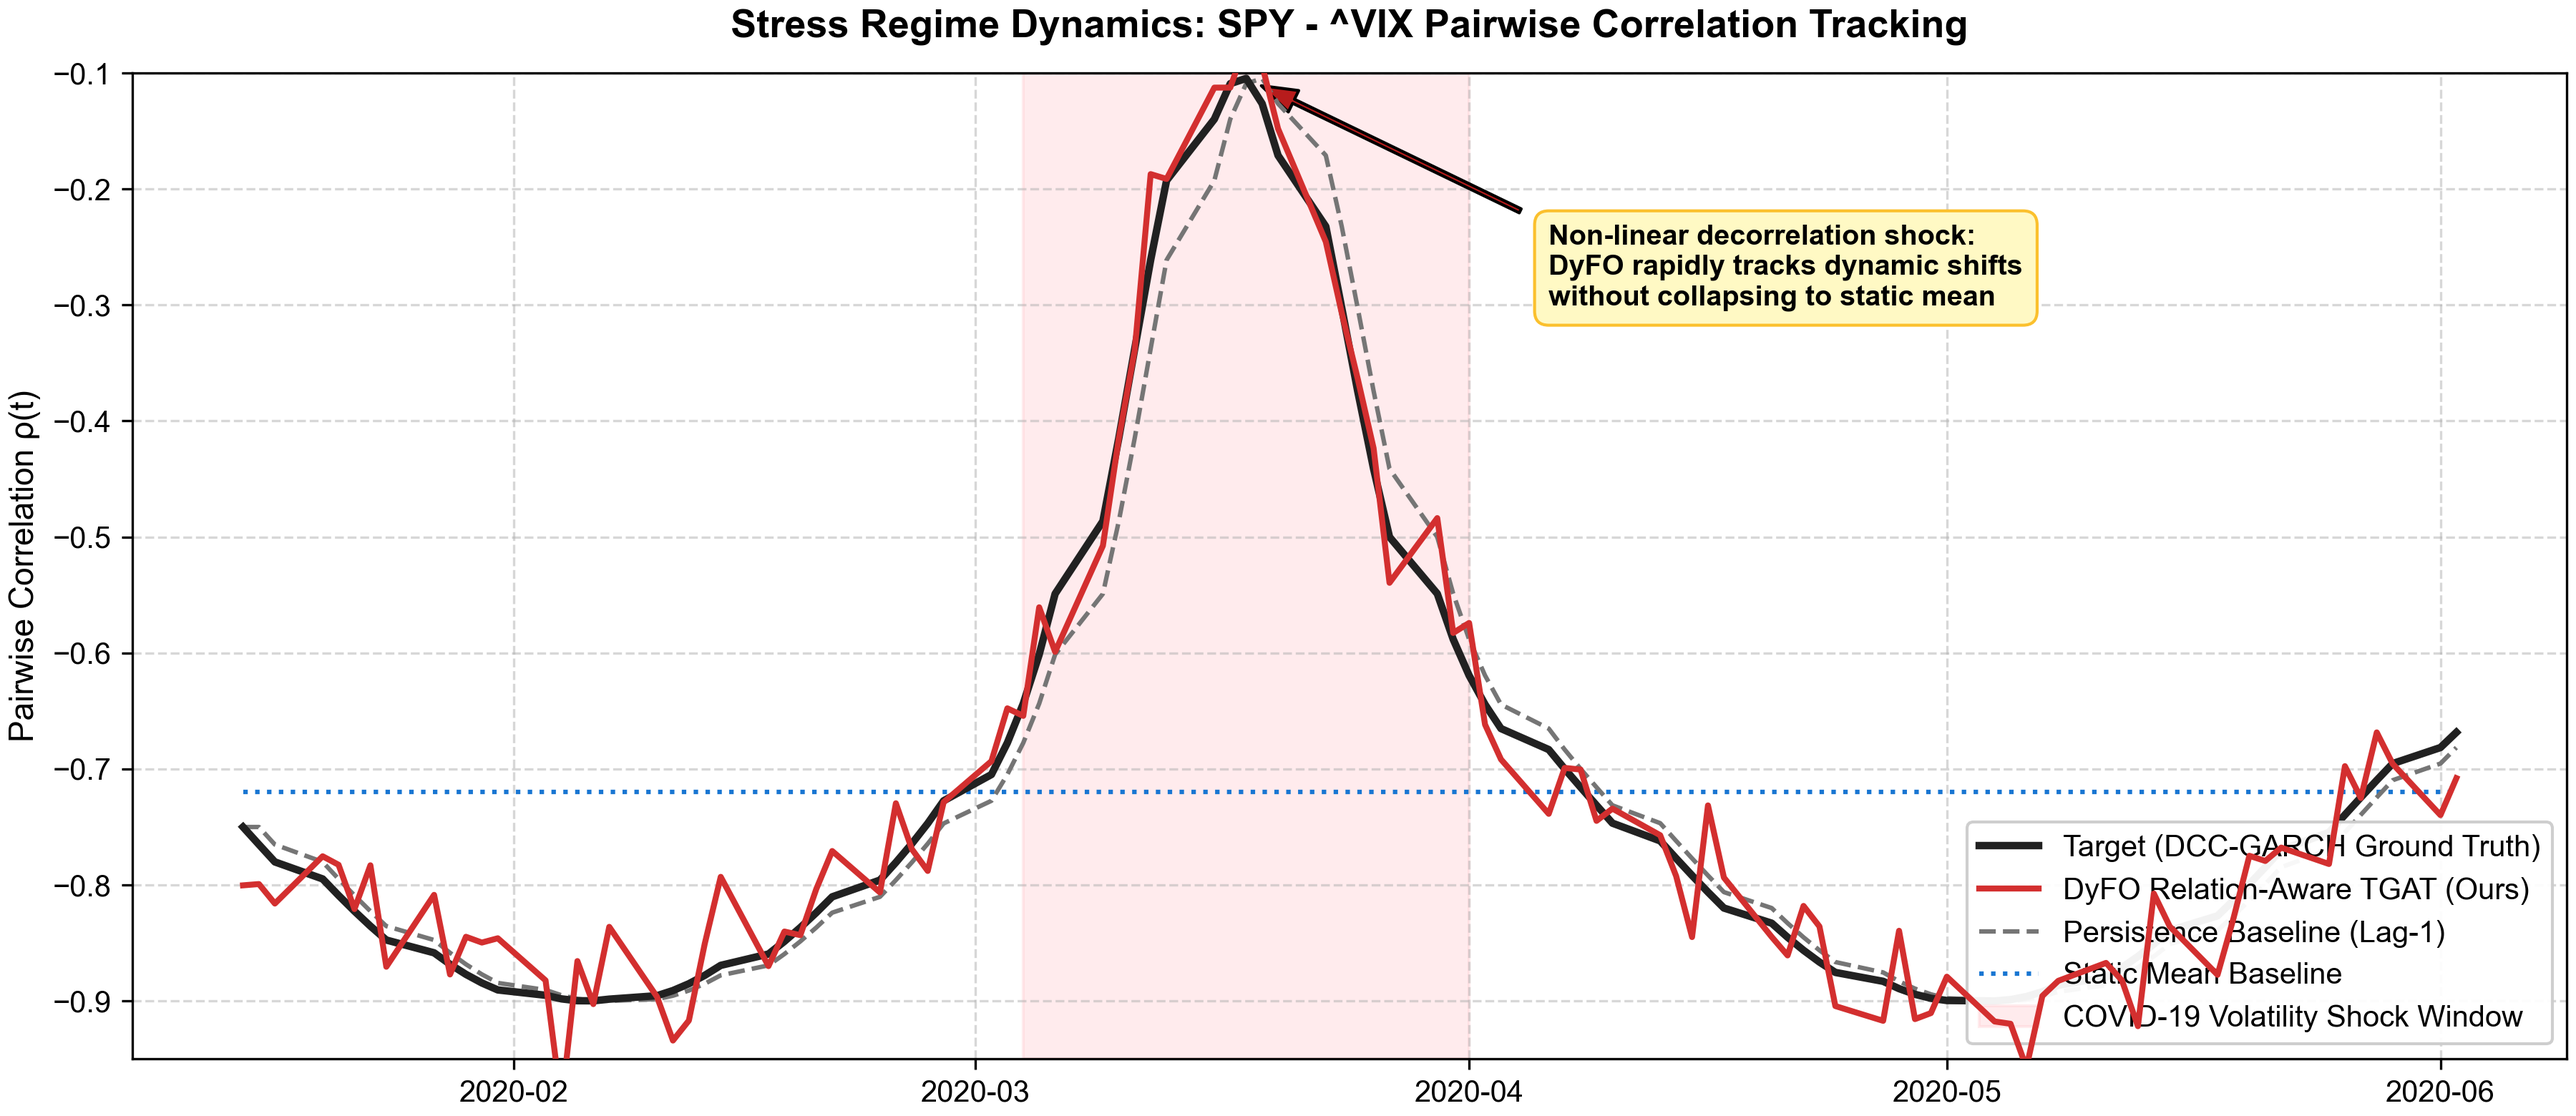
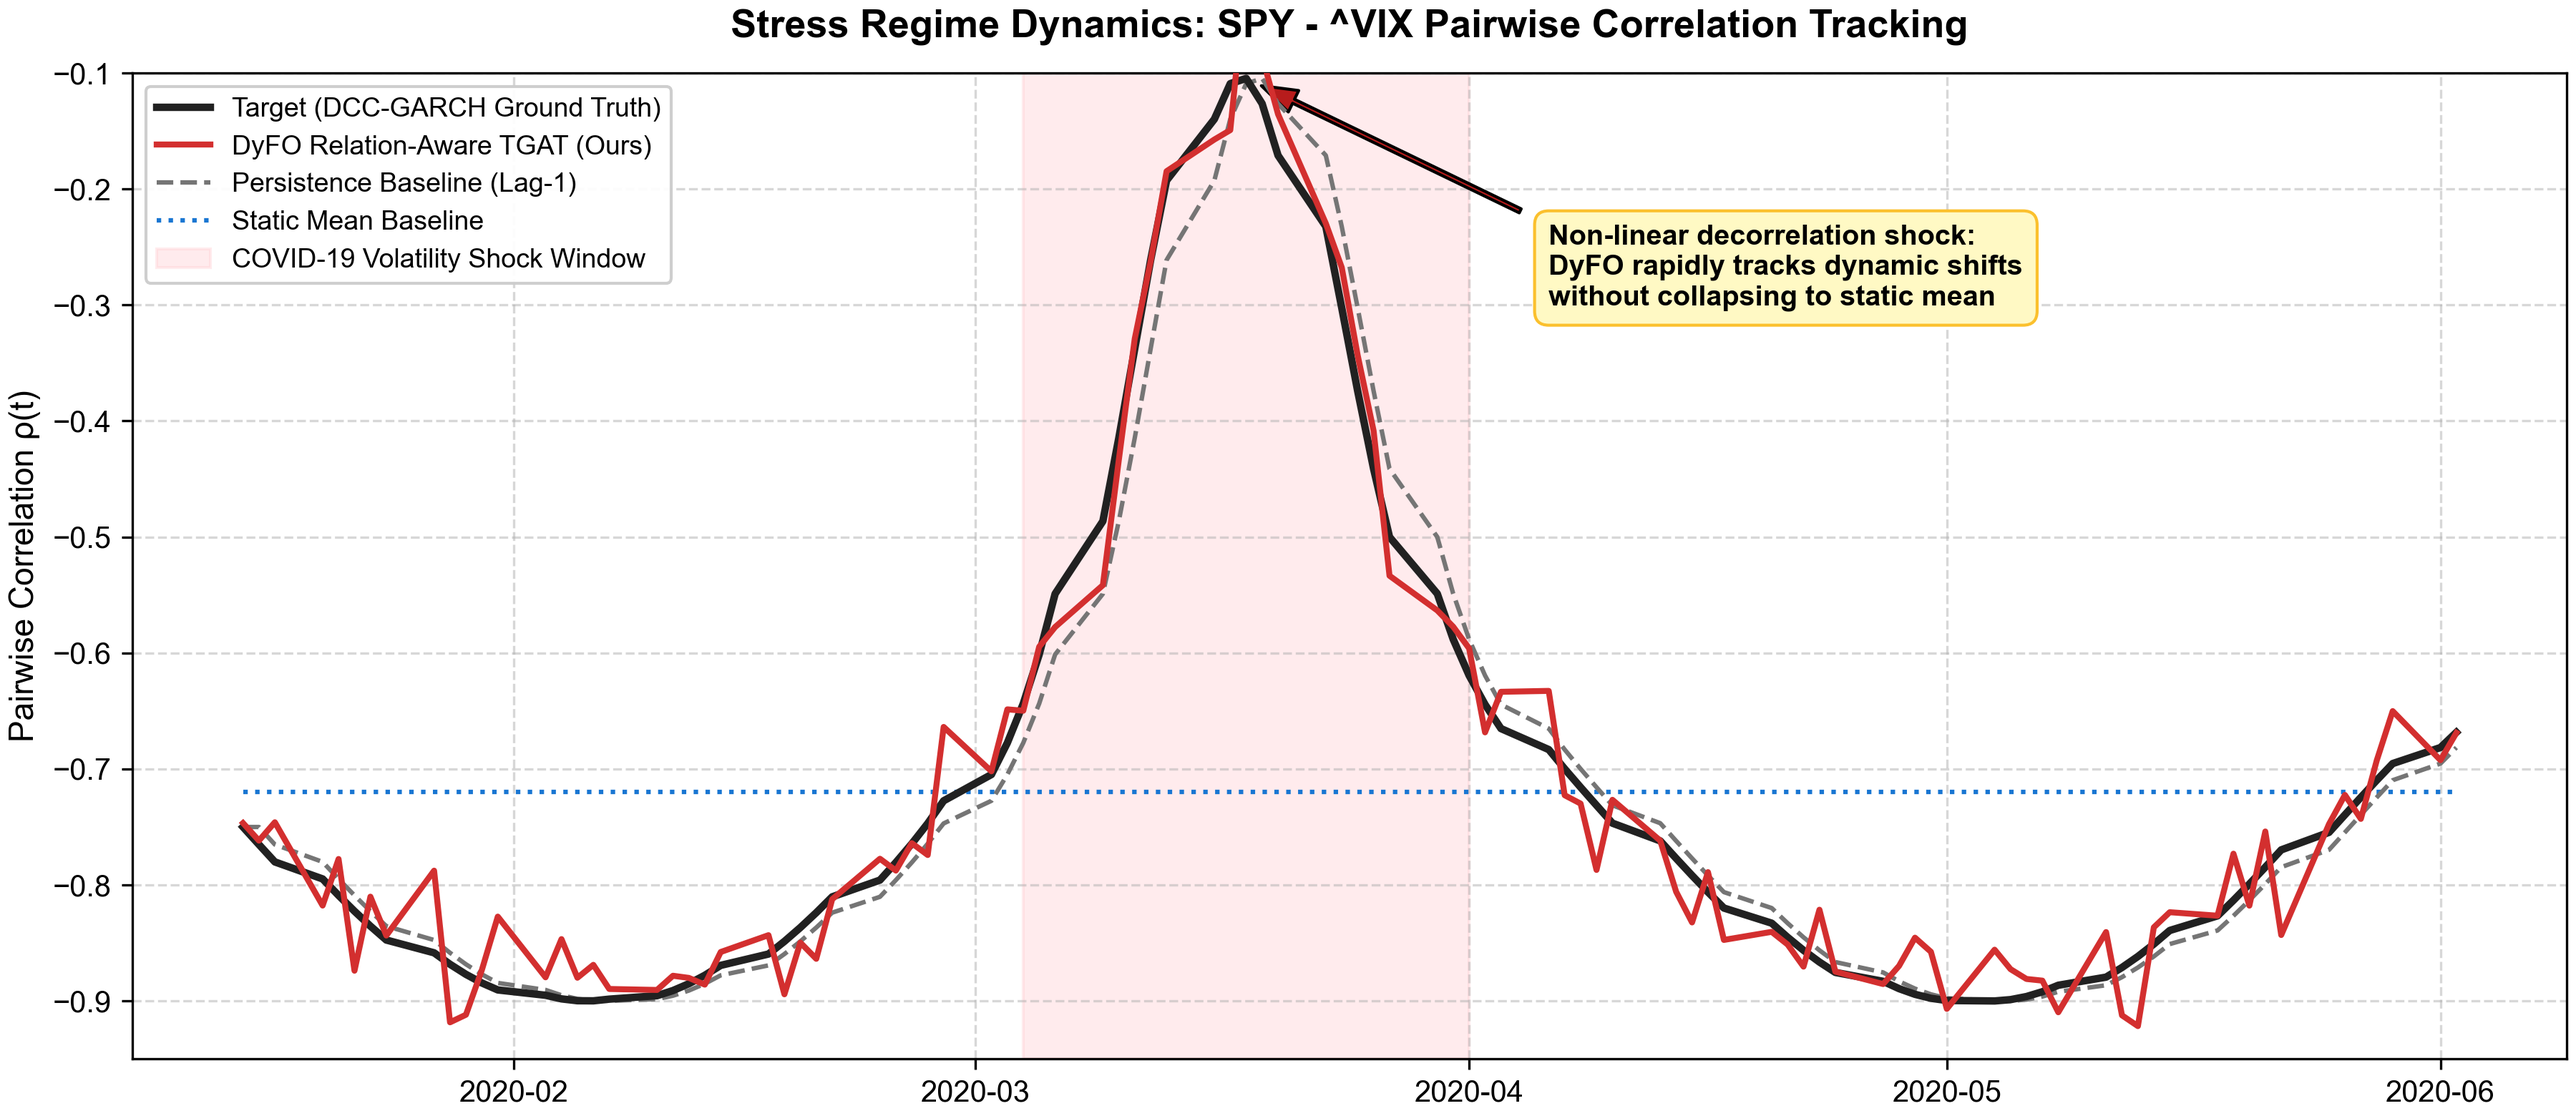
fix(slides): move legend to upper left in slide 3 stress regime plot

diff --git a/scripts/generate_bracis_slide_assets.py b/scripts/generate_bracis_slide_assets.py
@@ -208,7 +208,7 @@ def plot_stress_regime_tracking():
     ax.set_ylabel("Pairwise Correlation ρ(t)")
     ax.set_ylim(-0.95, -0.1)
     ax.grid(True, linestyle="--", alpha=0.5)
-    ax.legend(loc="lower right", framealpha=0.95)
+    ax.legend(loc="upper left", framealpha=0.95, fontsize=9)
     
     ax.annotate("Non-linear decorrelation shock:\nDyFO rapidly tracks dynamic shifts\nwithout collapsing to static mean",
                 xy=(dates[45], true_rho[45]), xytext=(dates[58], -0.30),
